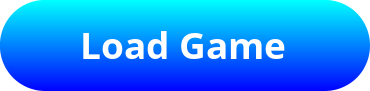
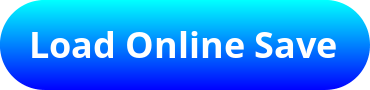
local saving
i think i added local saving

diff --git a/COP4331-game/core/src/com/mygdx/game/MainMenu.java b/COP4331-game/core/src/com/mygdx/game/MainMenu.java
@@ -25,6 +25,7 @@ public class MainMenu implements Screen {
 	Texture menuCursor;
 	Texture logOutButton;
 	Texture leaderboardbutton;
+	Texture loadlocalbutton;
 	Texture background;
 	int cursorPosition = 0;
 	int cursorPositionX = 0;
@@ -37,6 +38,7 @@ public class MainMenu implements Screen {
 	boolean loadedcombatcleared;
 	boolean gameloaded = false;
 	boolean nosave;
+	boolean noLocalSaveFound;
 
 	public MainMenu(final MyGdxGame game) {
 		this.game = game;
@@ -55,6 +57,7 @@ public class MainMenu implements Screen {
 		logOutButton = new Texture(Gdx.files.internal("logOutButton.png"));
 		menuCursor = new Texture(Gdx.files.internal("menuCursor.png"));
 		leaderboardbutton = new Texture(Gdx.files.internal("leaderboardbutton.png"));
+		loadlocalbutton = new Texture(Gdx.files.internal("loadLocalButton.png"));
 
 		camera = new OrthographicCamera();
 		camera.setToOrtho(false, 1280, 720);
@@ -163,10 +166,14 @@ public class MainMenu implements Screen {
 
 		game.batch.begin();
 		game.batch.draw(background, 0, 0);
-		game.batch.draw(newGameButton, 100, 550, newGameButton.getWidth(), newGameButton.getHeight());
-		game.batch.draw(leaderboardbutton, 100, 100, leaderboardbutton.getWidth(), leaderboardbutton.getHeight());
-		if(nosave){
-			game.fontLarge.draw(game.batch, "No Save \n Found", 35, 455);
+		game.batch.draw(newGameButton, 100, 600, newGameButton.getWidth(), newGameButton.getHeight());
+		game.batch.draw(loadlocalbutton, 100, 470, loadlocalbutton.getWidth(), loadlocalbutton.getHeight());
+		game.batch.draw(leaderboardbutton, 100, 80, leaderboardbutton.getWidth(), leaderboardbutton.getHeight());
+		if(noLocalSaveFound){
+			game.fontLarge.draw(game.batch, "  No Local \nSave Found", 10, 525);
+		}
+		if(nosave && game.userID != 0){
+			game.fontLarge.draw(game.batch, "No Save \n Found", 15, 400);
 		}
 		if(!game.serverConnected){
 			game.fontLarge.draw(game.batch, "Not Connected to the Server", 30, 50);
@@ -178,14 +185,14 @@ public class MainMenu implements Screen {
 			game.fontLarge.draw(game.batch, "Runs Completed: " + game.runscompleted, 1050, 50);
 		}
 		if(game.userID == 0) {
-			game.batch.draw(logInButton, 100, 400, logInButton.getWidth(), logInButton.getHeight());
-			game.batch.draw(createAccountButton, 100, 250, createAccountButton.getWidth(), createAccountButton.getHeight());
+			game.batch.draw(logInButton, 100, 340, logInButton.getWidth(), logInButton.getHeight());
+			game.batch.draw(createAccountButton, 100, 210, createAccountButton.getWidth(), createAccountButton.getHeight());
 		}
 		else{
-			game.batch.draw(loadGameButton, 100, 400, loadGameButton.getWidth(), loadGameButton.getHeight());
-			game.batch.draw(logOutButton, 100, 250, logOutButton.getWidth(), logOutButton.getHeight());
+			game.batch.draw(loadGameButton, 100, 340, loadGameButton.getWidth(), loadGameButton.getHeight());
+			game.batch.draw(logOutButton, 100, 210, logOutButton.getWidth(), logOutButton.getHeight());
 		}
-		game.batch.draw(menuCursor, 500 + (cursorPositionX*420), 550-(cursorPosition * 150), menuCursor.getWidth(), menuCursor.getHeight());
+		game.batch.draw(menuCursor, 490 + (cursorPositionX*430), 600-(cursorPosition * 130), menuCursor.getWidth(), menuCursor.getHeight());
 		game.fontHuge.draw(game.batch, "Change Font Size", 700, 610);
 		game.batch.end();
 		if(gameloaded){
@@ -206,7 +213,7 @@ public class MainMenu implements Screen {
 			}
 		}
 		if (Gdx.input.isKeyJustPressed(Input.Keys.DOWN)) {
-			if(cursorPosition != 3){
+			if(cursorPosition != 4){
 				cursorPosition++;
 			}
 		}
@@ -230,32 +237,55 @@ public class MainMenu implements Screen {
 				game.setScreen(new Combat(game, new RunData(defaultDeckList)));
 				dispose();
 			}
-			else if(cursorPosition == 1 && game.userID != 0){
+			else if(cursorPosition == 1){
+				loadLocalGame();
+
+			}
+			else if(cursorPosition == 2 && game.userID != 0){
 				game.socket.emit("load_game", game.userID);
 				// Load a game from a save, either online or offline
 				// Should also tell user if no save is available
 			}
-			else if(cursorPosition == 1 && game.userID == 0){
+			else if(cursorPosition == 2 && game.userID == 0){
 				game.setScreen(new LogIn(game));
 				dispose();
 				// Prompt user to log in
 			}
-			else if(cursorPosition == 2 && game.userID == 0){
+			else if(cursorPosition == 3 && game.userID == 0){
 				// Create an account
 				game.setScreen(new CreateAccount(game));
 				dispose();
 			}
-			else if(cursorPosition == 2 && game.userID !=0){
+			else if(cursorPosition == 3 && game.userID !=0){
 				game.userID = 0;
 				game.runscompleted = 0;
 			}
-			else if(cursorPosition == 3){
+			else if(cursorPosition == 4){
 				game.setScreen(new Leaderboard(game));
 				dispose();
 			}
 		}
 	}
-	
+	public void loadLocalGame(){
+		loadedseed = game.prefs.getLong("seed", 0);
+		loadedhealth = game.prefs.getInteger("health", 0);
+		loadedmaxHealth = game.prefs.getInteger("maxHealth", 0);
+		loadedlevel = game.prefs.getInteger("level", 0);
+		loadeddeck = game.prefs.getString("deck", "");
+		if(game.prefs.getInteger("combatclear") == 1){
+			loadedcombatcleared = true;
+		}
+		else{
+			loadedcombatcleared = false;
+		}
+		if(loadedseed != 0 && loadedhealth != 0 && loadedmaxHealth != 0) {
+			gameloaded = true;
+		}
+		else{
+			noLocalSaveFound = true;
+		}
+
+	}
 	@Override
 	public void resize(int width, int height) {
 	}
@@ -272,6 +302,7 @@ public class MainMenu implements Screen {
 		createAccountButton.dispose();
 		menuCursor.dispose();
 		leaderboardbutton.dispose();
+		loadlocalbutton.dispose();
 	}
 	
 	@Override

diff --git a/COP4331-game/core/src/com/mygdx/game/Rewards.java b/COP4331-game/core/src/com/mygdx/game/Rewards.java
@@ -85,6 +85,23 @@ public class Rewards implements Screen {
         game.socket.emit("save_game", game.userID, runData.getSeed(), runData.getHealth(), runData.getMaxHealth(),
                 runData.getLevel(), runData.getDeckList(), x);
     }
+    public void saveLocal(){
+        int x;
+        if(runData.getCombatClear()){
+            x=1;
+        }
+        else{
+            x = 0;
+        }
+        game.prefs.putInteger("userID", game.userID);
+        game.prefs.putLong("seed", runData.getSeed());
+        game.prefs.putInteger("health", runData.getHealth());
+        game.prefs.putInteger("maxHealth", runData.getMaxHealth());
+        game.prefs.putInteger("level", runData.getLevel());
+        game.prefs.putString("deck", runData.getDeckList());
+        game.prefs.putInteger("combatclear", x);
+        game.prefs.flush();
+    }
     @Override
     public void render(float delta) {
         ScreenUtils.clear(0, 0, 0.2f, 1);
@@ -173,7 +190,9 @@ public class Rewards implements Screen {
                        // proceed to next fight
                        if(game.userID != 0){
                            saveGame();
+
                        }
+                       saveLocal();
                        game.setScreen(new Combat(game, runData));
                        dispose();
                    }

diff --git a/COP4331-game/core/src/com/mygdx/game/Combat.java b/COP4331-game/core/src/com/mygdx/game/Combat.java
@@ -185,9 +185,12 @@ public class Combat implements Screen {
 						game.setScreen(new Winning(game));
 					}
 					else {
+						saveLocal();
 						if(game.userID != 0) {
+
 							saveGame();
 						}
+
 						game.setScreen(new Rewards(game, runData)); // proceed to combat rewards
 						dispose();
 					}
@@ -287,6 +290,23 @@ public class Combat implements Screen {
 		}
 		game.socket.emit("save_game", game.userID, runData.getSeed(), runData.getHealth(), runData.getMaxHealth(),
 				runData.getLevel(), runData.getDeckList(), x);
+	}
+	public void saveLocal(){
+		int x;
+		if(runData.getCombatClear()){
+			x=1;
+		}
+		else{
+			x = 0;
+		}
+		game.prefs.putInteger("userID", game.userID);
+		game.prefs.putLong("seed", runData.getSeed());
+		game.prefs.putInteger("health", runData.getHealth());
+		game.prefs.putInteger("maxHealth", runData.getMaxHealth());
+		game.prefs.putInteger("level", runData.getLevel());
+		game.prefs.putString("deck", runData.getDeckList());
+		game.prefs.putInteger("combatclear", x);
+		game.prefs.flush();
 	}
 	public void draw(int x) {
 		Card card;

diff --git a/COP4331-game/core/src/com/mygdx/game/MyGdxGame.java b/COP4331-game/core/src/com/mygdx/game/MyGdxGame.java
@@ -2,6 +2,7 @@ package com.mygdx.game;
 
 import com.badlogic.gdx.Game;
 import com.badlogic.gdx.Gdx;
+import com.badlogic.gdx.Preferences;
 import com.badlogic.gdx.graphics.g2d.BitmapFont;
 import com.badlogic.gdx.graphics.g2d.SpriteBatch;
 
@@ -19,11 +20,13 @@ public class MyGdxGame extends Game {
 	public int userID = 0;
 	public int runscompleted;
 	public boolean serverConnected = false;
+	public Preferences prefs;
 	//public boolean gameSaved = false;
 	public void create() {
 		batch = new SpriteBatch();
 		connectSocket();
 		configSocketEvents();
+		prefs = Gdx.app.getPreferences("cop4331savedata");
 		fontSmall = new BitmapFont(Gdx.files.internal("Arial8px.fnt"));
 		fontMedium = new BitmapFont(Gdx.files.internal("Arial12px.fnt"));
 		fontLarge = new BitmapFont(Gdx.files.internal("Arial18px.fnt"));
